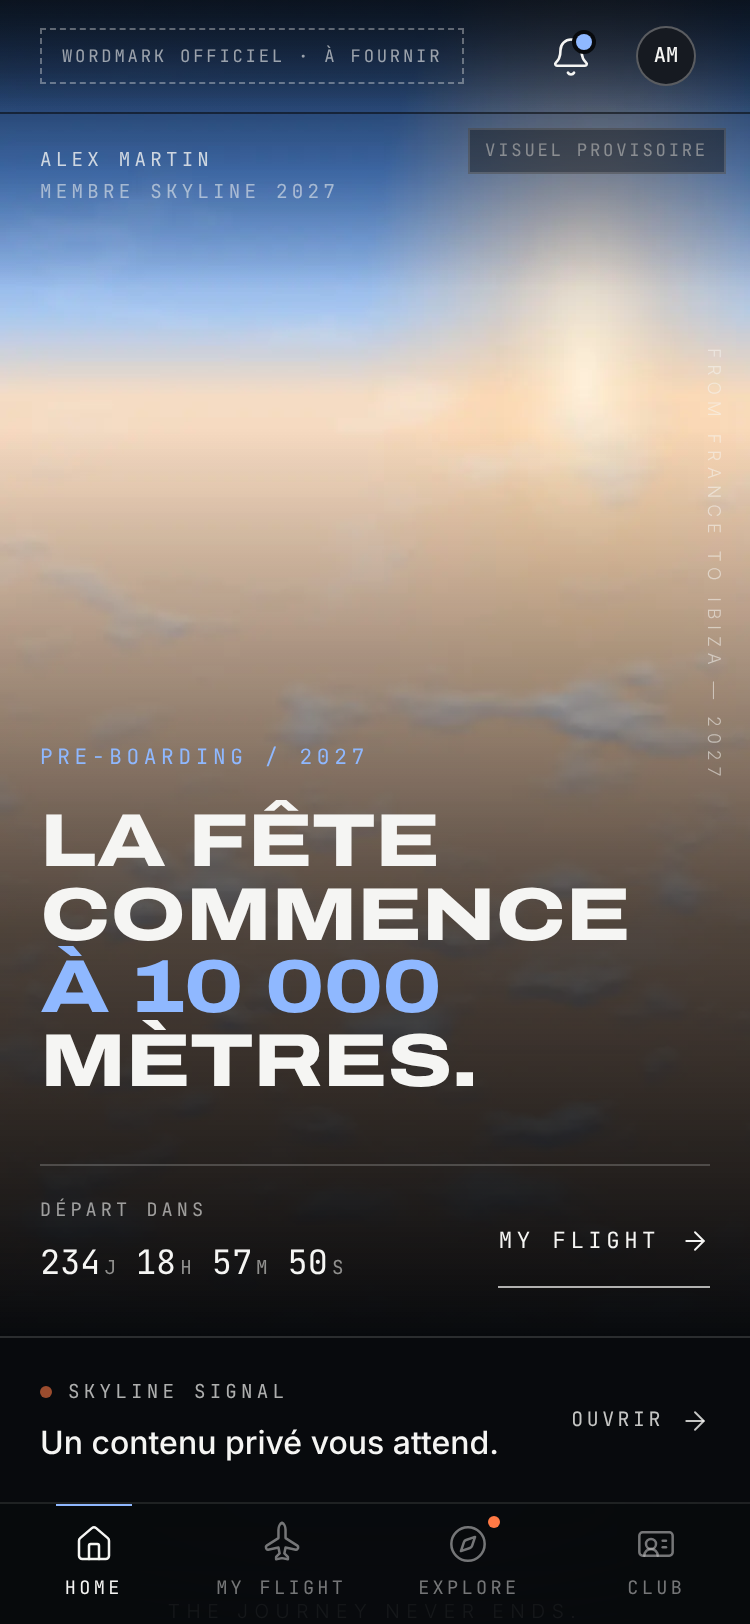
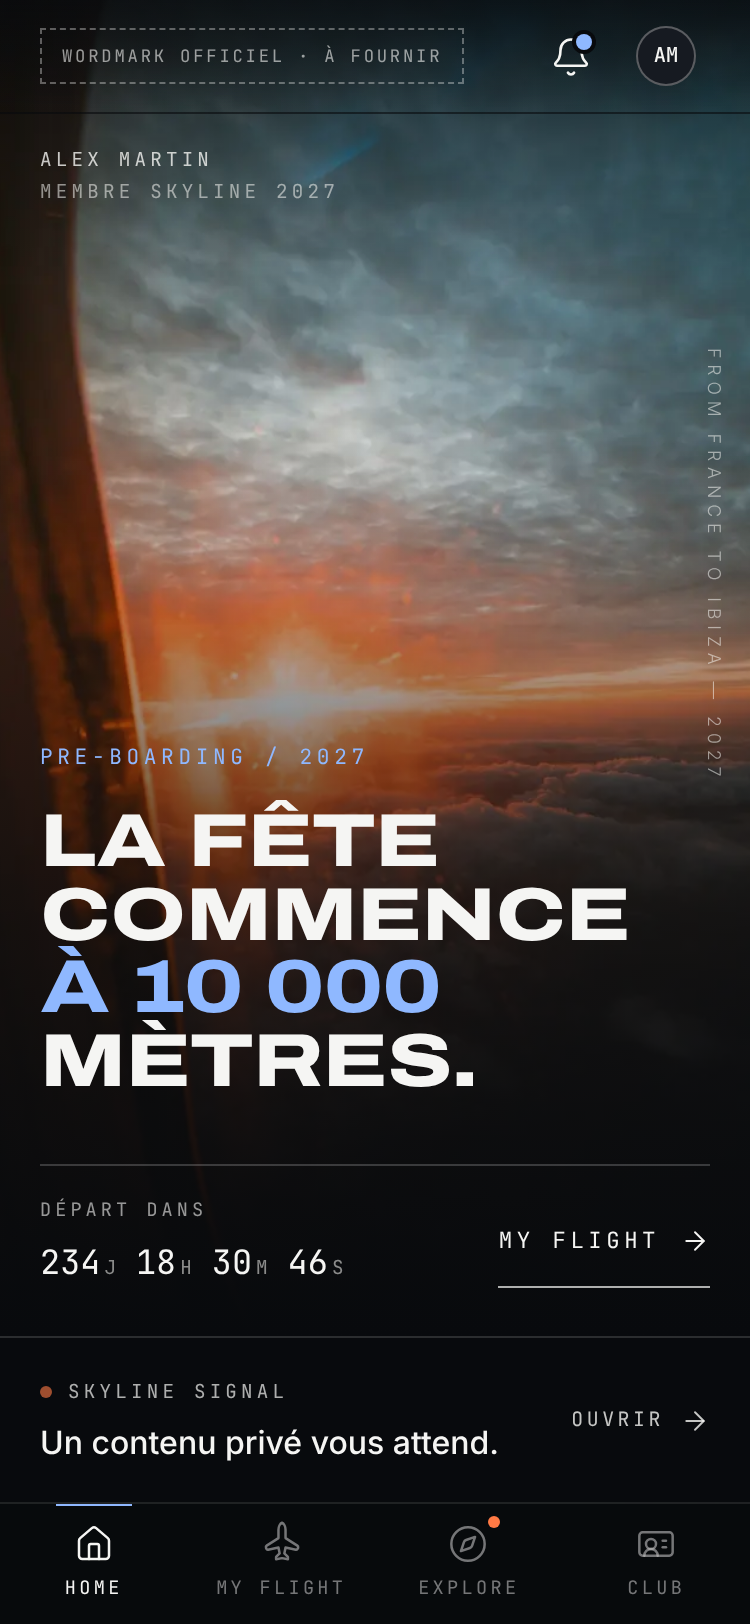
feat(v2): intégration des photographies authentiques de la première édition
Claude-Session: https://claude.ai/code/session_018yowc2fZK8CGvXNuJgwN62

diff --git a/src/data/demo.ts b/src/data/demo.ts
@@ -6,8 +6,8 @@
 
 export type NewsCategory = "artists" | "travel" | "program";
 
-/** true tant que les photos officielles ne sont pas fournies : affiche « visuel provisoire ». */
-export const PLACEHOLDER_PHOTOS = true;
+/** true = affiche « visuel provisoire » sur les photos de travail (désactivé : photos authentiques fournies). */
+export const PLACEHOLDER_PHOTOS = false;
 
 export const brand = {
   /** Fichiers officiels à fournir (SVG/PNG). Tant qu'ils sont absents, un emplacement clairement identifié s'affiche — jamais de logo recréé. */
@@ -39,12 +39,16 @@ export const user = {
   ],
 };
 
+/** Photographies authentiques de la première édition (fournies par SKYLINE). */
 export const images = {
-  hero: "/images/hero-v2.jpg",
-  experience: "/images/experience.jpg",
-  sunset: "/images/sunset.jpg",
-  day: "/images/day.jpg",
-  night: "/images/night.jpg",
+  before: "/photos/window-sunset.jpg",
+  during: "/photos/crowd-joy.jpg",
+  after: "/photos/stairs-night.jpg",
+  dj: "/photos/dj-set.jpg",
+  airport: "/photos/ibiza-airport.jpg",
+  aisle: "/photos/cabin-aisle.jpg",
+  champagne: "/photos/champagne.jpg",
+  motion: "/photos/cabin-motion.jpg",
 };
 
 export const experience = {
@@ -52,7 +56,7 @@ export const experience = {
   title: "LE DJ SET DANS L'AVION",
   teaser: "Un DJ set live en plein vol, avant deux jours de musique à Ibiza.",
   cta: "Découvrir le concept",
-  image: undefined as string | undefined, // emplacement : photo « DJ set dans l'avion » (4:5) à fournir
+  image: images.dj,
   concept: {
     intro:
       "SKYLINE transforme le trajet en première nuit de fête : un vol dédié, une cabine pensée comme un club et un DJ set live au-dessus des nuages.",
@@ -96,6 +100,7 @@ export const news: NewsItem[] = [
     title: "Bagages : ce qu'il faut savoir",
     excerpt: "Cabine et accessoire personnel.",
     body: ["Exemple de consigne de voyage : un bagage cabine et un accessoire personnel.", "Les règles réelles seront publiées avec la phase de réservation."],
+    image: images.aisle,
   },
   {
     id: "u3", category: "artists", tag: "ARTISTES", date: "6 oct.",
@@ -108,6 +113,7 @@ export const news: NewsItem[] = [
     title: "France → Ibiza : départ à préciser",
     excerpt: "Le lieu de rendez-vous sera annoncé.",
     body: ["L'aéroport et l'horaire de départ ne sont pas encore définis.", "Aucune réservation n'est possible dans cette version."],
+    image: images.airport,
   },
 ];
 
@@ -145,12 +151,12 @@ export const placeholders: Record<Exclude<NavId, "home" | "explore">, {
   title: string; subtitle: string; icon: string; image: string; upcoming: string[]; note?: string;
 }> = {
   flight: {
-    title: "MY FLIGHT", subtitle: "Votre accès SKYLINE.", icon: "plane", image: images.night,
+    title: "MY FLIGHT", subtitle: "Votre accès SKYLINE.", icon: "plane", image: images.aisle,
     upcoming: ["Pass digital SKYLINE", "Réservation confirmée", "Détails de départ vérifiés", "Documents essentiels"],
     note: "Le pass SKYLINE n'est pas un titre de transport : il ne remplace pas la carte d'embarquement de la compagnie aérienne.",
   },
   club: {
-    title: "SKYLINE CLUB", subtitle: "THE JOURNEY NEVER ENDS.", icon: "club", image: images.day,
+    title: "SKYLINE CLUB", subtitle: "THE JOURNEY NEVER ENDS.", icon: "club", image: images.champagne,
     upcoming: ["Carte de membre", "Historique de participation", "Archives photo et vidéo officielles", "Contenus exclusifs"],
   },
 };
@@ -160,7 +166,7 @@ export type SignalKind = "artist" | "venue" | "mix" | "video" | "partner";
 export type Signal = {
   id: string; kind: SignalKind; kindLabel: string; title: string; teaser: string; body: string[]; date: string;
   /** Orange = révélations musicales ; bleu ciel = le reste. */
-  tone: "sunset" | "sky"; mediaSlot: string;
+  tone: "sunset" | "sky"; mediaSlot: string; media?: string;
 };
 export const signals: Signal[] = [
   {
@@ -175,13 +181,13 @@ export const signals: Signal[] = [
     title: "Un lieu à Ibiza se dévoile",
     teaser: "Première révélation de la programmation.",
     body: ["Ici s'afficherait la révélation d'un lieu de l'édition.", "Contenu de démonstration : aucun lieu n'est confirmé."],
-    mediaSlot: "Photo officielle du lieu · 4:5",
+    mediaSlot: "Photo officielle du lieu · 4:5", media: images.airport,
   },
   {
     id: "s3", kind: "mix", kindLabel: "Mix exclusif", tone: "sunset", date: "9 oct.",
     title: "Un mix à écouter avant le départ",
     teaser: "Disponible uniquement pour les membres.",
     body: ["Ici s'afficherait un mix exclusif autorisé par l'artiste et le diffuseur.", "Contenu de démonstration : aucun média n'est intégré."],
-    mediaSlot: "Visuel officiel du mix · 1:1",
+    mediaSlot: "Visuel officiel du mix · 1:1", media: images.motion,
   },
 ];

diff --git a/src/app/explore/page.tsx b/src/app/explore/page.tsx
@@ -4,6 +4,8 @@ import { ArrowRight } from "lucide-react";
 import { UpdatesFeed } from "@/components/explore/UpdatesFeed";
 import { SignalList } from "@/components/signal/SignalList";
 import { ExperienceSheet } from "@/components/home/ExperienceSheet";
+import { Photo } from "@/components/ui/Photo";
+import { experience } from "@/data/demo";
 import { DemoFooter } from "@/components/layout/DemoFooter";
 
 /** Écran temporaire (EXPLORE éditorial à concevoir après validation de HOME) : révélations + annonces existantes. */
@@ -14,9 +16,19 @@ export default function Page() {
       <div className="px-5">
         <p className="font-mono text-[0.6rem] uppercase tracking-[0.22em] text-sky">Skyline Culture</p>
         <h1 className="font-display mt-3 text-[clamp(2rem,10vw,3.1rem)]">Explore</h1>
+      </div>
+      <div className="px-5 pt-6">
         <button type="button" onClick={() => setConcept(true)} aria-haspopup="dialog"
-          className="mt-5 inline-flex min-h-11 items-center gap-2 border-b border-sky/70 pb-0.5 font-mono text-[0.68rem] uppercase tracking-[0.18em] text-sky">
-          Découvrir le concept <ArrowRight size={15} strokeWidth={1.5} aria-hidden />
+          className="group relative isolate block aspect-[4/5] w-full overflow-hidden rounded-[4px] text-left">
+          <Photo src={experience.image} alt="" objectPosition="50% 40%" imgClassName="transition duration-1000 group-hover:scale-[1.03] motion-reduce:transition-none" />
+          <span className="absolute inset-0 bg-gradient-to-t from-jet via-jet/40 via-40% to-transparent" />
+          <span className="absolute inset-x-0 bottom-0 block p-5">
+            <span className="block font-mono text-[0.6rem] uppercase tracking-[0.22em] text-cloud/80">{experience.eyebrow}</span>
+            <span className="font-display mt-2 block text-[1.5rem]">{experience.title}</span>
+            <span className="mt-3 inline-flex min-h-11 items-center gap-2 border-b border-sky/70 pb-0.5 font-mono text-[0.68rem] uppercase tracking-[0.18em] text-sky">
+              {experience.cta} <ArrowRight size={15} strokeWidth={1.5} aria-hidden />
+            </span>
+          </span>
         </button>
       </div>
       <SignalList />

diff --git a/src/components/home/HomeHero.tsx b/src/components/home/HomeHero.tsx
@@ -16,15 +16,15 @@ const phases: Record<EventPhase, {
 }> = {
   before: {
     eyebrow: "Pre-boarding / 2027", lines: ["La fête", "commence", "à 10 000", "mètres."], accentLine: 2, accent: "text-sky",
-    image: images.hero, objectPos: "50% 100%", cta: { label: "My Flight", href: "/flight" }, countdown: "departure", countdownLabel: "Départ dans",
+    image: images.before, objectPos: "30% 50%", cta: { label: "My Flight", href: "/flight" }, countdown: "departure", countdownLabel: "Départ dans",
   },
   during: {
     eyebrow: "Ibiza / 2027 — en cours", lines: ["Bienvenue", "à Ibiza."], accentLine: 1, accent: "text-sunset",
-    image: images.sunset, objectPos: "50% 60%", cta: { label: "My Flight", href: "/flight" }, countdown: "end", countdownLabel: "Fin dans",
+    image: images.during, objectPos: "50% 40%", cta: { label: "My Flight", href: "/flight" }, countdown: "end", countdownLabel: "Fin dans",
   },
   after: {
     eyebrow: "SKYLINE Club", lines: ["The journey", "never ends."], accentLine: 1, accent: "text-silver",
-    image: images.night, objectPos: "50% 40%", cta: { label: "Mon Club", href: "/club" }, countdown: null,
+    image: images.after, objectPos: "50% 30%", cta: { label: "Mon Club", href: "/club" }, countdown: null,
   },
 };
 

diff --git a/src/components/home/ExperienceSheet.tsx b/src/components/home/ExperienceSheet.tsx
@@ -2,6 +2,7 @@
 import { experience } from "@/data/demo";
 import { Button } from "@/components/ui/Button";
 import { Icon } from "@/components/ui/Icon";
+import { Photo } from "@/components/ui/Photo";
 import { Sheet } from "@/components/ui/Sheet";
 
 /** Panneau de présentation du concept (fonction conservée de la V1). */
@@ -9,6 +10,10 @@ export function ExperienceSheet({ open, onClose }: { open: boolean; onClose: () 
   const { concept } = experience;
   return (
     <Sheet open={open} onClose={onClose} eyebrow={experience.eyebrow} title="Le concept SKYLINE">
+      <div className="relative -mx-5 mb-5 aspect-[4/3] overflow-hidden">
+        <Photo src={experience.image} alt="DJ set à bord de l'avion SKYLINE" objectPosition="50% 45%" sizes="(max-width: 480px) 100vw, 480px" />
+        <div className="absolute inset-x-0 bottom-0 h-1/3 bg-gradient-to-t from-surface-1 to-transparent" />
+      </div>
       <p className="leading-relaxed text-cloud/85">{experience.teaser}</p>
       <p className="mt-3 leading-relaxed text-cloud/85">{concept.intro}</p>
       <ul className="mt-5 divide-y divide-line border-y border-line">

diff --git a/src/components/signal/SignalReveal.tsx b/src/components/signal/SignalReveal.tsx
@@ -16,7 +16,7 @@ export function SignalReveal({ signal, onClose }: { signal: Signal | null; onClo
       {signal && (
         <article className="flex min-h-full flex-col">
           <div className="relative h-[52dvh] shrink-0">
-            <Photo slotLabel={signal.mediaSlot} provisional={PLACEHOLDER_PHOTOS} />
+            <Photo src={signal.media} alt="" slotLabel={signal.mediaSlot} provisional={PLACEHOLDER_PHOTOS} />
             <div className="absolute inset-x-0 bottom-0 h-1/3 bg-gradient-to-t from-jet to-transparent" />
           </div>
           <div className="px-5 pb-[max(2rem,var(--safe-bottom))]">

diff --git a/docs/skyline-v2/V2_REPORT.md b/docs/skyline-v2/V2_REPORT.md
@@ -29,3 +29,8 @@ Build, lint ; ~28 vérifications d'interaction OK (SIGNAL, retour système, pers
 | Photos réelles pour EXPLORE, CLUB (archives, aftermovies) | Hors mission |
 | MY FLIGHT, EXPLORE éditorial, CLUB (carte membre noir/argent/blanc) | Non conçus — attendre la validation de HOME |
 | Safari iOS réel / performances appareil | Non testé ici |
+
+## Mise à jour — photographies authentiques intégrées
+13 photographies de la première édition (fournies par SKYLINE) sont dans `public/photos/` (redimensionnées à 1200 px, ≈ 2,4 Mo au total). Hero « avant » : coucher de soleil au hublot ; « pendant » : fête en cabine ; « après » : escalier de nuit ; DJ set : présentation du concept (HOME → Explore) ; photos des Signals « lieu » et « mix ».
+Toutes les images générées ont été supprimées. Le Signal « artiste » garde volontairement un emplacement : aucune annonce d'artiste fictive ne doit s'appuyer sur le visage d'une vraie personne.
+Droits à confirmer avant diffusion publique : accord des personnes photographiées (participants, DJ) et crédit photographe.
